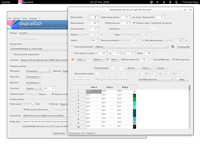
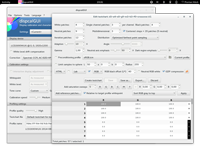
Updated screenshots & ReadMe theme
git-svn-id: https://svn.code.sf.net/p/dispcalgui/code/trunk@2344 6ae35eb0-b8ff-4ca7-919d-0ec1eff389cd

diff --git a/theme/readme.js b/theme/readme.js
@@ -100,7 +100,7 @@ jQuery(function ($) {
 	});
 	
 	/* Indent after br */
-	$('#content br').after('<span class="indent"></span>')
+	$('#content p > br').after('<span class="indent"></span>')
 	
 	/* Teaser */
 	var interval = setInterval(function () {

diff --git a/theme/readme.css b/theme/readme.css
@@ -157,7 +157,7 @@ h5 {
 	font-size: 16px;
 	line-height: 20px;
 }
-acronym {
+acronym[title], span[title] {
 	border-bottom: 1px dotted #ccc;
 	cursor: help;
 }
